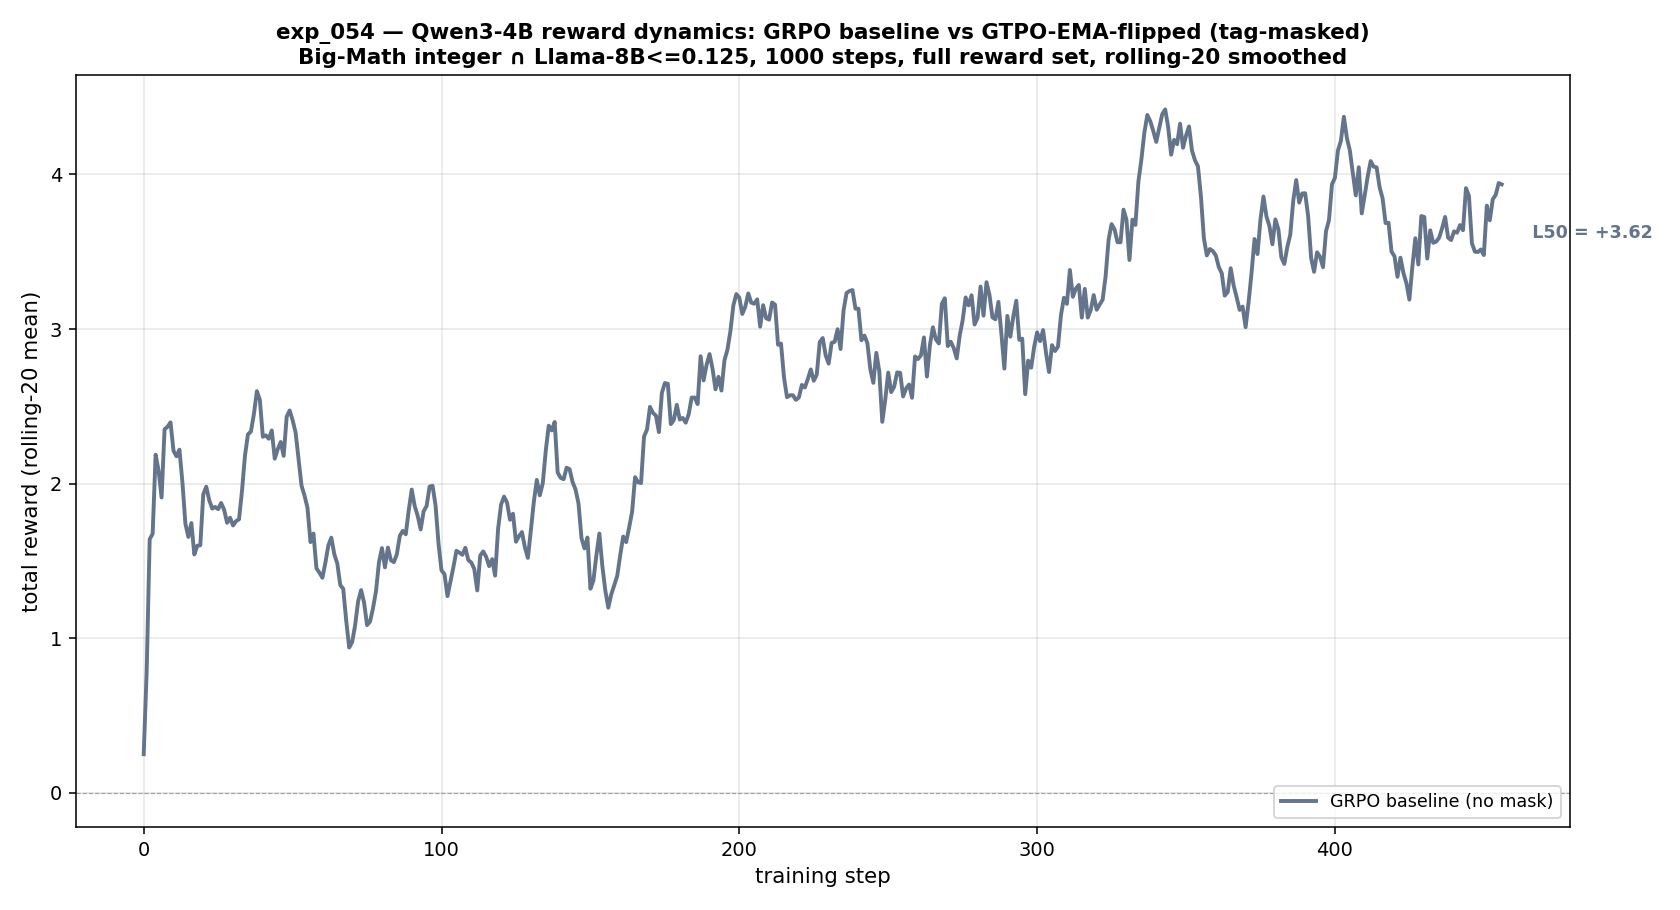
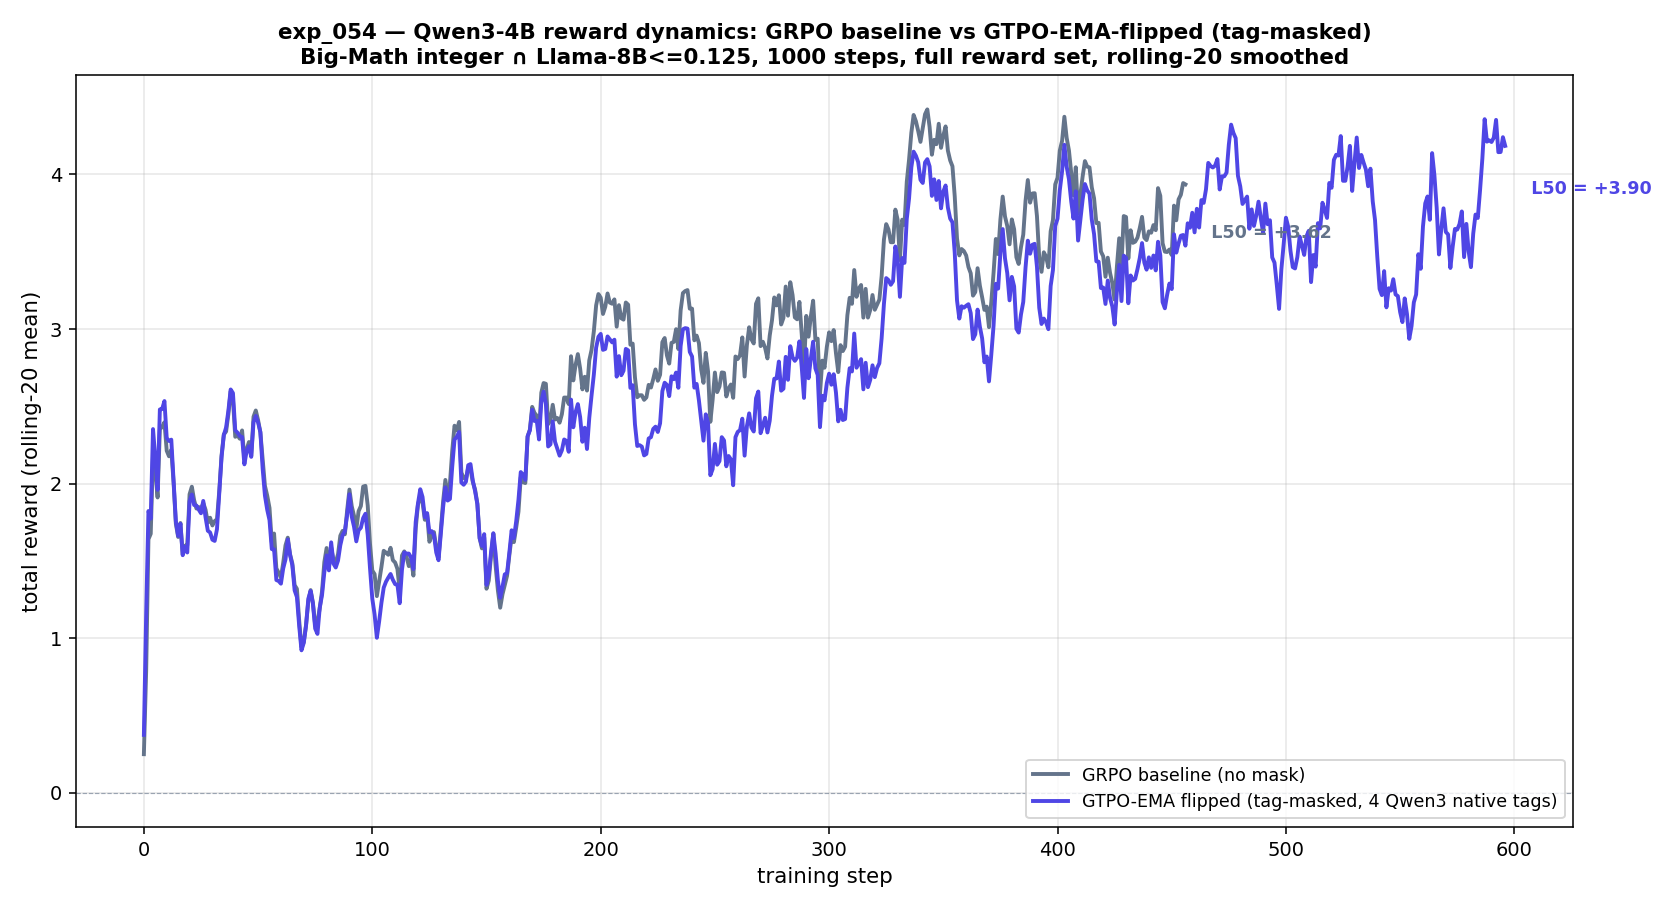
exp_054: refresh reward dynamics plot — grpo (stopped @457) vs gtpo_ema_flipped (still running)
both curves on one panel, rolling-20 smoothed. grpo trajectory ends at
step 457 where it was manually stopped (reward plateaued at L50 ≈ +3.62);
gtpo_ema_flipped (tag-masked) continues, currently around step 600 at
L50 +3.90.

step-matched read at step 457 (both methods seen the same prompts):
  grpo  L50 = +3.62  KL 0.009  clip 25%  mean_len 3898
  ema   L50 = +3.45  KL 0.006  clip 28%  mean_len 4116
  Δ vs grpo = -0.17  KL smaller (per-token shaping regularises)
  →  ema lags grpo by ~50 steps on Qwen3 native format (same pattern
     as exp_051/052/053 — per-token shaping is not helping Qwen3)

ema currently sits above grpo's last point at +3.90 vs +3.62, but grpo
wasn't run past 457 so we cannot say ema overtakes — ema just continues
the same plateau-with-slow-climb behaviour grpo would likely have shown
if let to run.

label fix: plot legend now says "4 Qwen3 native tags" (not 6 — that
was the exp_053 custom-tag mix).

diff --git a/experiments/exp_054_qwen3_native_xhard_grpo_vs_ema/plot_reward_dynamics.py b/experiments/exp_054_qwen3_native_xhard_grpo_vs_ema/plot_reward_dynamics.py
@@ -16,7 +16,7 @@ HERE = os.path.dirname(__file__)
 
 CURVES = [
     ("grpo",             "GRPO baseline (no mask)",                            "#64748b"),
-    ("gtpo_ema_flipped", "GTPO-EMA flipped (tag-masked, 6 special tokens)",    "#4f46e5"),
+    ("gtpo_ema_flipped", "GTPO-EMA flipped (tag-masked, 4 Qwen3 native tags)", "#4f46e5"),
 ]
 
 
